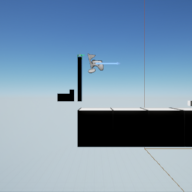
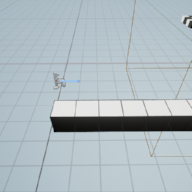
カメラの切り替え制御の改善をしました。詳細は, Changlog.mdを参照して下さい。 残りコミット分

diff --git a/Changelog.md b/Changelog.md
@@ -69,3 +69,19 @@
 	- [Statick Mesh の表示・非表示処理の仕方参考サイト](https://answers.unrealengine.com/questions/262267/set-visibility-set-actor-hidden-in-game-switches-f.html)
 
 #### 記述者 : 牛山 拓成, 記述日 : 2016年08月02日(火) 午後4時56分
+***
+* 追加内容
+	- 「Tutorial03_2DMap, Tutorial02_3DMap, Tutorial03_3DMap」のレベルブループリントに,
+        カメラの切り替えが出来る地点, カメラの切り替えが出来ない地点 を追加した。また, これらのレベル
+        に, トリガーボックスを幾つかの地点に配置しました。
+    - 現時点でのマップ構成での, Characterが, Map上で, カメラの切り替えをすると, 不整合を起こす事象を全て改善しました。
+
+* bugfix
+	- _「Tutorial03_3DMap の特定箇所で, カメラ切り替えすると, Player が, アクターにハマってしまう
+        事象が確認されたため, BoxTrigger を 2 カ所に配置しました。
+        まだ, Trigger 処理 を書いていないので, 次回は, ここから対処していく。」__解決しました。___
+
+* 参考サイト
+	- とくになし。
+
+#### 記述者 : 牛山 拓成, 記述日 : 2016年08月11日(木) 午後6時16分
